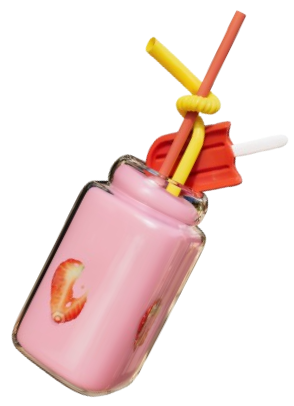
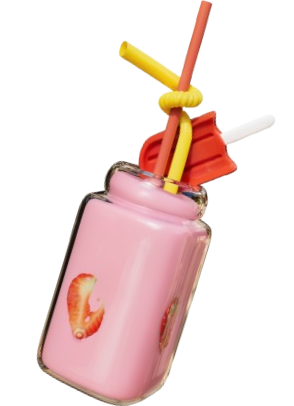
Implement BottomNav component and Events page; enhance navigation with smooth scrolling and update Categories layout

Changed region(s): [[0.0306, 0.0, 0.9796, 1.0], [0.8571, 0.2956, 0.949, 0.3251]]

diff --git a/components/BottomNav.tsx b/components/BottomNav.tsx
@@ -1,7 +1,8 @@
 "use client";
 
 import Link from "next/link";
-import { usePathname } from "next/navigation";
+import { usePathname, useRouter } from "next/navigation";
+import { useEffect, useState } from "react";
 
 const NAV_ITEMS = [
   {
@@ -29,14 +30,14 @@ const NAV_ITEMS = [
     ),
   },
   {
-    href: "/#menu",
-    label: "آیتمها",
-    route: "/",
+    href: "/events",
+    label: "ایونتها",
+    route: "/events",
     icon: (
       <path
         strokeLinecap="round"
         strokeLinejoin="round"
-        d="M7 5h10M7 12h10M7 19h10M4 5h.01M4 12h.01M4 19h.01"
+        d="M8 7V3M16 7V3M3 11h18M5 19h14a2 2 0 0 0 2-2V7a2 2 0 0 0-2-2H5a2 2 0 0 0-2 2v10a2 2 0 0 0 2 2z"
       />
     ),
   },
@@ -54,8 +55,100 @@ const NAV_ITEMS = [
   },
 ] as const;
 
+function AnchorLink({ item, itemHash, rawHashPart, isActive, setHash }: any) {
+  const router = useRouter();
+
+  const handleClick = async (e: any) => {
+    if (!itemHash) return;
+    e.preventDefault();
+    const targetPath = item.route ?? "/";
+    const target = `${targetPath}${itemHash}`;
+
+    if (typeof window !== "undefined") {
+      if (window.location.pathname === targetPath && window.location.hash === itemHash) {
+        const el = rawHashPart ? document.getElementById(rawHashPart) : null;
+        if (el) el.scrollIntoView({ behavior: "smooth" });
+        return;
+      }
+    }
+
+    await router.push(target);
+
+    if (typeof window !== "undefined") {
+      try {
+        setHash(window.location.hash);
+      } catch (_) {}
+      const el = rawHashPart ? document.getElementById(rawHashPart) : null;
+      if (el) el.scrollIntoView({ behavior: "smooth" });
+    }
+  };
+
+  const homeClick = async (e: any) => {
+    e.preventDefault();
+    const targetPath = item.route ?? "/";
+
+    if (typeof window !== "undefined") {
+      if (window.location.pathname === targetPath && window.location.hash) {
+        try {
+          window.history.replaceState(null, "", targetPath);
+        } catch {}
+        try {
+          setHash("");
+        } catch {}
+        window.scrollTo({ top: 0, behavior: "smooth" });
+        return;
+      }
+    }
+
+    await router.push(targetPath);
+    if (typeof window !== "undefined") {
+      try {
+        setHash(window.location.hash);
+      } catch {}
+    }
+  };
+
+  return (
+    <Link
+      href={item.href}
+      aria-label={item.label}
+      onClick={item.href.includes("#") ? handleClick : item.href === "/" ? homeClick : undefined}
+      className={`flex min-w-[68px] flex-col items-center gap-1.5 rounded-full px-3 py-2 text-center transition-colors ${isActive
+        ? "bg-orange-500 text-white shadow-[0_12px_24px_rgba(255,106,0,0.3)]"
+        : "text-white/72 hover:text-white"
+      }`}
+    >
+      <svg
+        xmlns="http://www.w3.org/2000/svg"
+        className="h-5 w-5"
+        fill="none"
+        viewBox="0 0 24 24"
+        stroke="currentColor"
+        strokeWidth={1.8}
+      >
+        {item.icon}
+      </svg>
+      <span className="text-[0.68rem] font-semibold">{item.label}</span>
+    </Link>
+  );
+}
+
 export default function BottomNav() {
   const pathname = usePathname();
+  const [hash, setHash] = useState(
+    typeof window !== "undefined" ? window.location.hash : ""
+  );
+
+  useEffect(() => {
+    const onHashChange = () => setHash(window.location.hash);
+    window.addEventListener("hashchange", onHashChange);
+    return () => window.removeEventListener("hashchange", onHashChange);
+  }, []);
+
+  // Keep hash state in sync after client-side navigation (router.push)
+  useEffect(() => {
+    if (typeof window !== "undefined") setHash(window.location.hash);
+  }, [pathname]);
 
   return (
     <nav
@@ -63,30 +156,26 @@ export default function BottomNav() {
       className="fixed bottom-4 left-1/2 z-30 w-[calc(100%-2rem)] max-w-[408px] -translate-x-1/2"
     >
       <div className="mx-auto flex items-center justify-between rounded-full border border-orange-500/18 bg-black/80 px-3 py-3 shadow-[0_24px_48px_rgba(0,0,0,0.4)] ring-1 ring-white/6 backdrop-blur-md">
-        {NAV_ITEMS.map((item) => (
-          <Link
-            key={item.href}
-            href={item.href}
-            aria-label={item.label}
-            className={`flex min-w-[68px] flex-col items-center gap-1.5 rounded-full px-3 py-2 text-center transition-colors ${pathname === item.route
-              && pathname === item.href
-              ? "bg-orange-500 text-white shadow-[0_12px_24px_rgba(255,106,0,0.3)]"
-              : "text-white/72 hover:text-white"
-              }`}
-          >
-            <svg
-              xmlns="http://www.w3.org/2000/svg"
-              className="h-5 w-5"
-              fill="none"
-              viewBox="0 0 24 24"
-              stroke="currentColor"
-              strokeWidth={1.8}
-            >
-              {item.icon}
-            </svg>
-            <span className="text-[0.68rem] font-semibold">{item.label}</span>
-          </Link>
-        ))}
+        {NAV_ITEMS.map((item) => {
+          const rawHashPart = item.href.includes("#") ? item.href.split("#").pop() : null;
+          const itemHash = rawHashPart ? `#${rawHashPart}` : null;
+          const currentHash = typeof window !== "undefined" ? window.location.hash : hash;
+          const isActive = itemHash
+            ? pathname === item.route && (currentHash === itemHash || (currentHash && currentHash.endsWith(itemHash)))
+            : pathname === item.route && !currentHash;
+
+          return (
+            <AnchorLink
+              key={item.href}
+              item={item}
+              itemHash={itemHash}
+              rawHashPart={rawHashPart}
+              isActive={isActive}
+              setHash={setHash}
+            />
+          );
+        })}
+
       </div>
     </nav>
   );

diff --git a/app/events/page.tsx b/app/events/page.tsx
@@ -1,0 +1,67 @@
+import BottomNav from "@/components/BottomNav";
+import { brand } from "@/components/easycafe-data";
+import Image from "next/image";
+
+export default function EventsPage() {
+    const events = [
+        {
+            id: "mafia",
+            title: "مافیا",
+            blurb: "بازی اجتماعی و مهیج در فضای کافه",
+            date: "بهزودی",
+            howTo: "بهزودی",
+        },
+    ];
+
+    return (
+        <main className="relative isolate min-h-screen overflow-hidden px-4 py-6 sm:px-6 sm:py-10">
+            <div className="pointer-events-none absolute inset-x-0 top-0 h-80 bg-[radial-gradient(circle_at_top,_rgba(255,140,33,0.2),_transparent_68%)]" />
+            <div className="pointer-events-none absolute left-1/2 top-16 h-80 w-80 -translate-x-1/2 rounded-full bg-orange-500/12 blur-3xl" />
+
+            <section className="relative mx-auto flex min-h-[100vh] w-full max-w-[440px] flex-col overflow-hidden rounded-[40px] border border-orange-500/20 bg-[linear-gradient(180deg,rgba(14,14,14,0.98)_0%,rgba(7,7,7,0.99)_100%)] p-4 shadow-[0_40px_120px_rgba(0,0,0,0.6)] ring-1 ring-white/6">
+                <div className="pointer-events-none absolute inset-x-0 top-0 h-52 bg-[radial-gradient(circle_at_top,_rgba(255,166,77,0.2),_transparent_70%)]" />
+                <div className="pointer-events-none absolute -right-14 top-24 h-56 w-56 rounded-full bg-orange-500/10 blur-3xl" />
+
+                <div className="relative flex flex-1 flex-col gap-6 pb-28">
+                    <header className="flex items-center gap-3 px-1 pt-3">
+                        <div className="relative h-16 w-16 shrink-0 overflow-hidden rounded-[22px] border border-orange-500/24 bg-[#131313] shadow-[0_18px_36px_rgba(255,106,0,0.16)] ring-1 ring-white/6">
+                            <Image src="/logo.png" alt="لوگوی Easycafe" fill priority sizes="64px" className="object-cover" />
+                        </div>
+                        <div className="leading-tight">
+                            <p className="text-[0.72rem] font-semibold uppercase tracking-[0.35em] text-orange-300/72">
+                                رویدادها
+                            </p>
+                            <h1 className="mt-1 text-[1.55rem] font-extrabold tracking-tighter text-white">
+                                ایونتها
+                            </h1>
+                            <p className="mt-2 text-sm text-white/54">رویدادها و نشستهای ویژه در کافه</p>
+                        </div>
+                    </header>
+
+                    <div className="grid gap-4">
+                        {events.map((ev) => (
+                            <article key={ev.id} className="rounded-[18px] border border-white/8 bg-[#0f0f0f] p-4 shadow-[0_18px_36px_rgba(0,0,0,0.24)]">
+                                <div className="flex items-start justify-between gap-3">
+                                    <div>
+                                        <h3 className="text-lg font-bold text-white">{ev.title}</h3>
+                                        <p className="mt-1 text-sm text-white/60">{ev.blurb}</p>
+                                    </div>
+                                    <div className="min-w-[64px] text-right">
+                                        <p className="text-sm font-semibold text-orange-300/90">{ev.date}</p>
+                                        <p className="mt-1 text-xs text-white/54">محل: {brand.name}</p>
+                                    </div>
+                                </div>
+                                <div className="mt-4 flex items-center justify-between gap-3">
+                                    <p className="text-sm text-white/70">روش شرکت: <span className="font-semibold text-white">{ev.howTo}</span></p>
+                                    <button disabled className="rounded-md bg-orange-500/12 px-3 py-2 text-sm font-semibold text-orange-300/84 ring-1 ring-white/6">اطلاعات بیشتر</button>
+                                </div>
+                            </article>
+                        ))}
+                    </div>
+                </div>
+
+                <BottomNav />
+            </section>
+        </main>
+    );
+}

diff --git a/components/Categories.tsx b/components/Categories.tsx
@@ -65,7 +65,7 @@ export default function Categories() {
                   }}
                 />
               </span>
-              <span style={{ whiteSpace: "nowrap" }} className="mt-5 text-[0.75rem]  font-bold leading-4 tracking-[-0.03em] text-white/92">
+              <span style={{ whiteSpace: "nowrap" }} className="mt-5 min-h-6 flex items-center justify-center text-[0.75rem]  font-bold leading-4 tracking-[-0.03em] text-white/92">
                 {section.title}
               </span>
             </a>